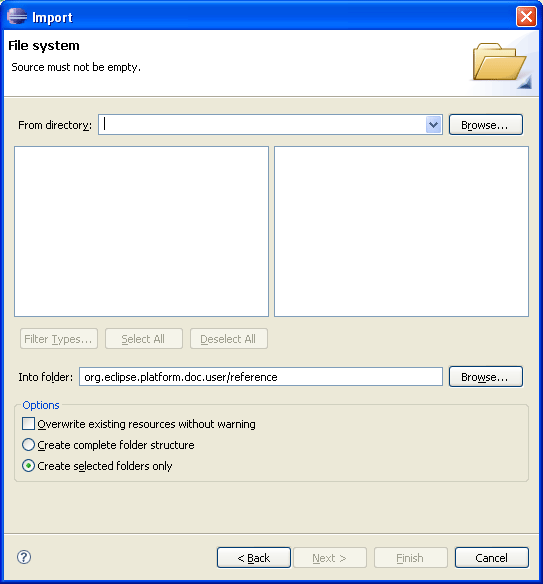
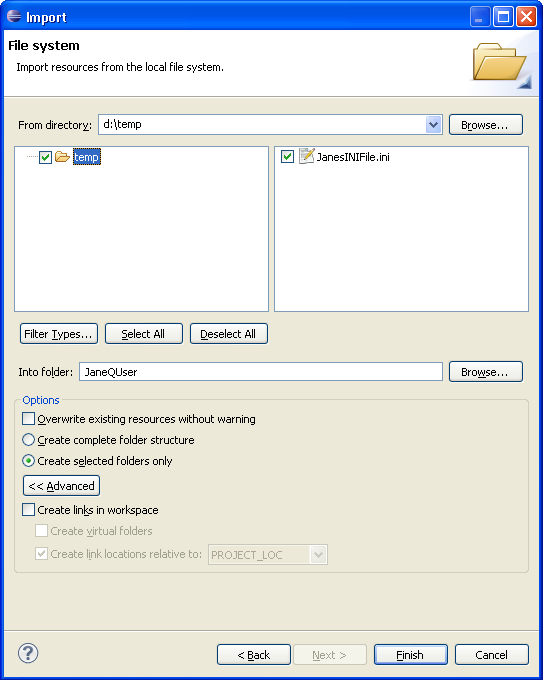
Bug 311540 -  Updates needed to the Resources docs

diff --git a/bundles/org.eclipse.platform.doc.isv/guide/resAdv_variables.htm b/bundles/org.eclipse.platform.doc.isv/guide/resAdv_variables.htm
@@ -1,0 +1,43 @@
+<!DOCTYPE HTML PUBLIC "-//W3C//DTD HTML 4.0 Transitional//EN"><html lang="en">
+<HEAD>
+
+<meta name="copyright" content="Copyright (c) IBM Corporation and others 2000, 2005. This page is made available under license. For full details see the LEGAL in the documentation book that contains this page." >
+
+<META HTTP-EQUIV="Content-Type" CONTENT="text/html; charset=ISO-8859-1">
+<META HTTP-EQUIV="Content-Style-Type" CONTENT="text/css">
+
+<LINK REL="STYLESHEET" HREF="../book.css" CHARSET="ISO-8859-1" TYPE="text/css">
+<TITLE>
+Dynamic Path Variables
+</TITLE>
+
+<link rel="stylesheet" type="text/css" HREF="../book.css">
+</HEAD>
+<BODY BGCOLOR="#ffffff">
+<H2>
+Dynamic path variables</H2>
+<P >
+Each linked resource in the workspace can be specified relative to a path variable.
+</P>
+<P >
+Each IResource has a dedicated path variable manager, accessible from <b>IResource.getPathVariableManager()</b>.  
+The path variable manager allows reading, creating and changing path variables, along with resolving URIs that may be relative 
+to a path variable, as opposed to be defined as an absolute path. 
+</P>
+<P >
+Currently, each project has a separate list of path variables, so all resources under a given project have path variable managers
+that contain the same list of path variables, although that could change in the future.  Still variables <i>values</i> can be different
+between two path variable managers of two different resources.  For example, the variable "PARENT_LOC" contains the location of 
+the workspace parent of the current resource for which the path variable manager was created. 
+</P>
+<P >
+The default path variable list can be extended through the  <a href="../reference/extension-points/org_eclipse_core_resources_variableResolvers.html"><b>org.eclipse.core.resources.variablesResolvers</b></a> extension point.
+</p>
+<P >
+Because of limitations and backward compatibilities in the legacy <b>IPathVariableManager</b>, the path variable values cannot contain
+parent path lexical element ("..").  Instead, the methods <b>IPathVariableManager.convertToUserEditableFormat</b> and <b>IPathVariableManager.convertFromUserEditableFormat</b>
+can be used to convert a path that contains the ".." element into an internal format that can be stored in the URI of a variable. The UI
+automatically converts user provided strings into the internal format and vice versa.
+</p>
+</BODY>
+</HTML>

diff --git a/bundles/org.eclipse.platform.doc.user/gettingStarted/qs-31b.htm b/bundles/org.eclipse.platform.doc.user/gettingStarted/qs-31b.htm
@@ -29,6 +29,13 @@ Drag and drop or copy and paste</h3>
     <P CLASS="Para"> Locate the file JanesFile.txt that was recently exported 
       and drag it to a specific location in one of the navigation views in the 
       Workbench.&nbsp;&nbsp;</P>
+    <P CLASS="Para"> A dialog appears that allows to determine how the file will be
+    added to the project, either as a simple copy of the original file or as a link file.</P>
+	<blockquote> 
+	  <blockquote> 
+	    <P CLASS="Para"> <img src="../images/Image_file_operation.png"  alt="File and Folder Operation dialog" border="0"></P>
+	  </blockquote>
+	</blockquote>
     <P CLASS="Para">When dragging resources into one of the navigation views, 
       the project/folder that the resource is being dropped into will be selected.</P>
     <blockquote> 
@@ -46,8 +53,13 @@ Drag and drop or copy and paste</h3>
     then selecting the destination in the navigation view and choosing <b>Edit 
     &gt; Paste</b>. </li>
 </ol>
-
-
-
+<P CLASS="Para">Generally, files and folders can be imported in a project by making a 
+copies under the project folder, or by linking to the original file by creating link files and folders.
+When folders are drag and dropped (not only files), the dialog allows also to create a project hierarchy with virtual folders.</P>
+<blockquote> 
+  <blockquote> 
+    <P CLASS="Para"> <img src="../images/Image_file_folder_operation.png"  alt="File and Folder Operation dialog" border="0"></P>
+  </blockquote>
+</blockquote>
 </BODY>
 </HTML>

diff --git a/bundles/org.eclipse.platform.doc.user/reference/ref-70.htm b/bundles/org.eclipse.platform.doc.user/reference/ref-70.htm
@@ -467,6 +467,47 @@ resources being imported. </P>
 <P CLASS="Para">On</P>
 </TD>
 </TR>
+<TR>
+<TD ROWSPAN="1" COLSPAN="1" valign="top" align="left">
+<P CLASS="Para">
+Create links in workspace</P>
+</TD>
+<TD ROWSPAN="1" COLSPAN="1" valign="top" align="left">
+<P CLASS="Para">
+Create links to the original files and folders instead of copying them under the project folder. </P>
+</TD>
+<TD ROWSPAN="1" COLSPAN="1" valign="top" align="left">
+<P CLASS="Para">Off</P>
+</TD>
+</TR>
+<TR>
+<TD ROWSPAN="1" COLSPAN="1" valign="top" align="left">
+<P CLASS="Para">
+Create virtual folders</P>
+</TD>
+<TD ROWSPAN="1" COLSPAN="1" valign="top" align="left">
+<P CLASS="Para">
+Create hierarchy (folder) structure in the Workbench to accommodate the
+resources being imported. </P>
+</TD>
+<TD ROWSPAN="1" COLSPAN="1" valign="top" align="left">
+<P CLASS="Para">Off, unless the selection is a partial hierarchy, or the 'into folder' field is a virtual folder</P>
+</TD>
+</TR>
+<TR>
+<TD ROWSPAN="1" COLSPAN="1" valign="top" align="left">
+<P CLASS="Para">
+Create link location relative to: PROJECT_LOC</P>
+</TD>
+<TD ROWSPAN="1" COLSPAN="1" valign="top" align="left">
+<P CLASS="Para">
+When the 'Create links in workspace' option is set, the link file and folder locations are automatically set to be relative 
+to a variable instead of being an absolute path</P>
+</TD>
+<TD ROWSPAN="1" COLSPAN="1" valign="top" align="left">
+<P CLASS="Para">On</P>
+</TD>
+</TR>
 </TBODY>
 </TABLE>
 </DIV>

diff --git a/bundles/org.eclipse.platform.doc.user/tasks/tasks-1e.htm b/bundles/org.eclipse.platform.doc.user/tasks/tasks-1e.htm
@@ -28,7 +28,8 @@ outside of the project's location.  These special folders and files are called
 <a href="../concepts/concepts-2.htm">Workbench</a><br>
 <a href="../concepts/concepts-12.htm">Resources</a><br>
 <a href="../concepts/concepts-17.htm">Resource hierarchies</a><br>
-<a href="../concepts/concepts-13.htm">Linked resources</a>
+<a href="../concepts/concepts-13.htm">Linked resources</a><br>
+<a href="../concepts/resourcefilters.htm">Resource filters</a>
 </p>
 
 <p><img border="0" src="../images/ngrelt.png" alt="Related tasks" ><br>
@@ -42,7 +43,8 @@ outside of the project's location.  These special folders and files are called
 <a href="tasks-63cg.htm">Copying resources</a><br>
 <a href="tasks-66.htm">Renaming resources</a><br>
 <a href="tasks-67.htm">Deleting resources</a><br>
-<a href="tasks-49.htm">Viewing resources properties</a>
+<a href="tasks-49.htm">Viewing resources properties</a><br>
+<a href="tasks-97.htm">Creating resource filters</a>
 </p>
 
 </BODY>

diff --git a/bundles/org.eclipse.platform.doc.isv/guide/resAdv.htm b/bundles/org.eclipse.platform.doc.isv/guide/resAdv.htm
@@ -35,6 +35,7 @@ features, take a gander at some of these topics:
        <li><a href="wrkAdv_efs_resources.htm">User interface support for alternative file systems</a></li>
     </ul>
   </li>
+  <li><a href="resAdv_variables.htm">Dynamic path variables</a></li>
 </ul>
 </BODY>
 </HTML>
